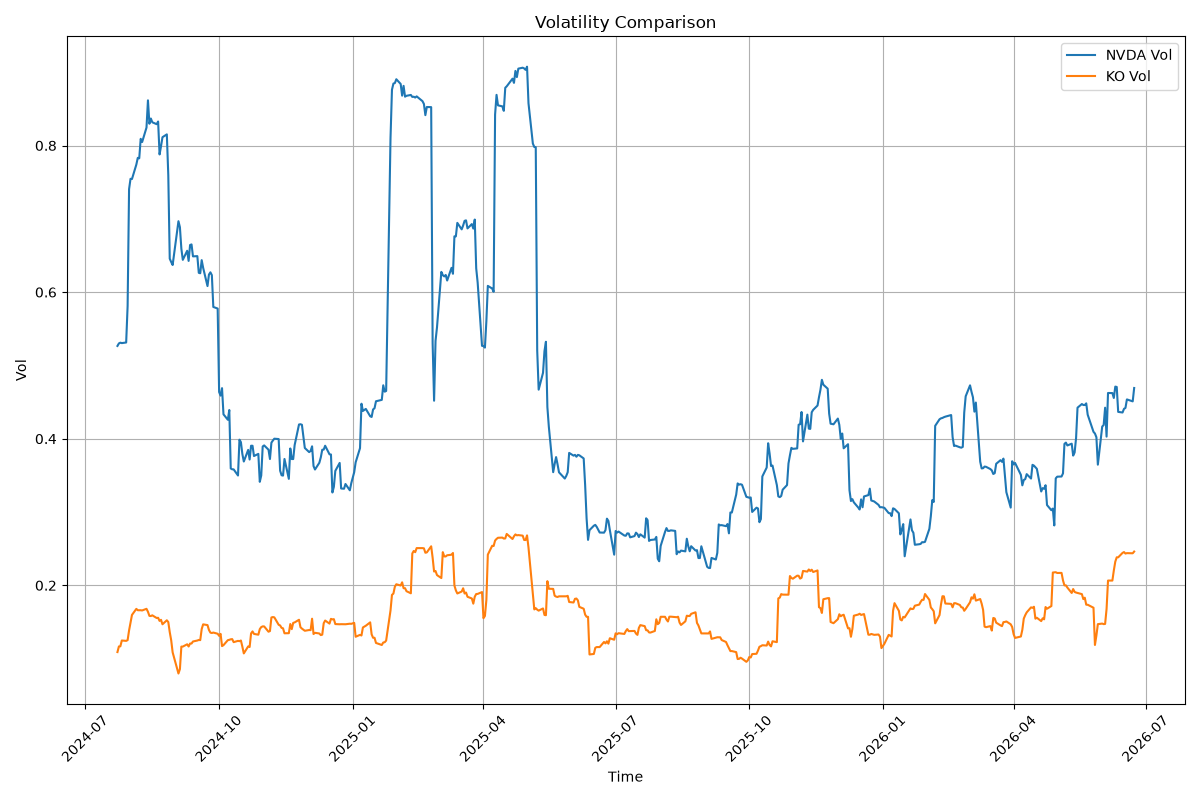
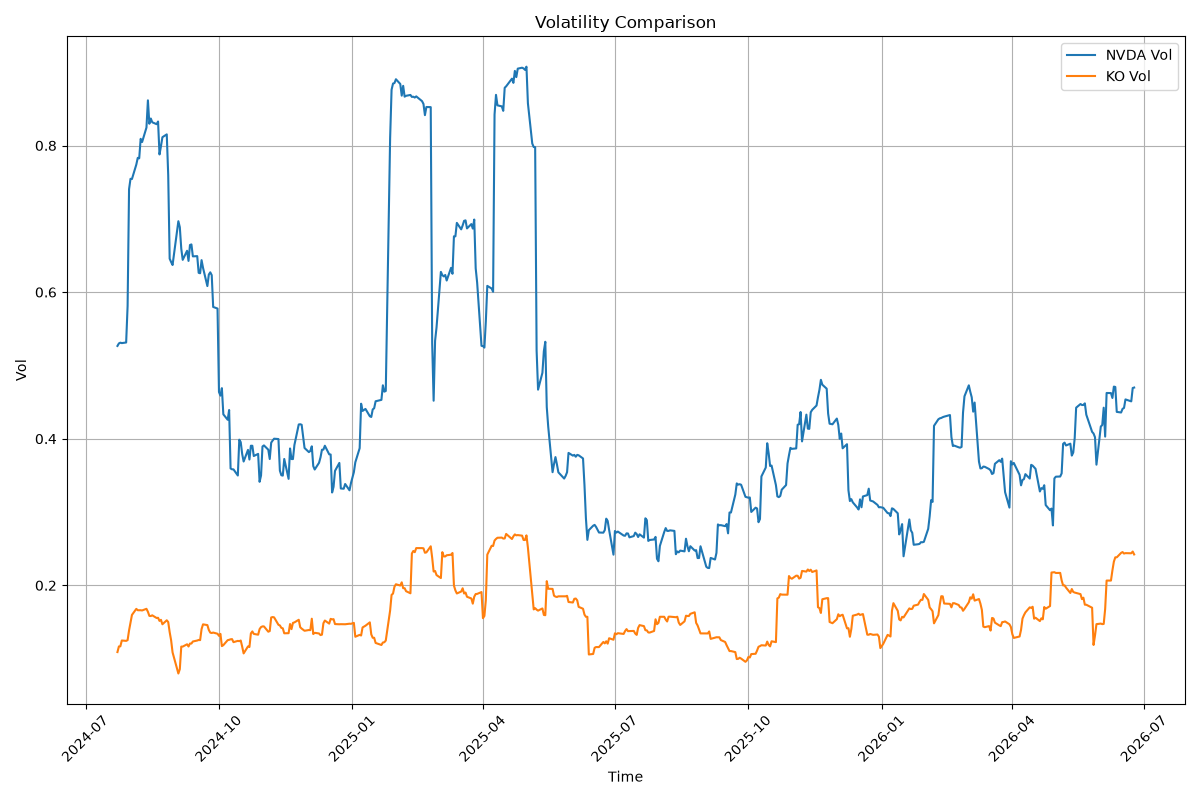
I changed code to include correlaton matrix for vola

diff --git a/24_06.py b/24_06.py
@@ -1,5 +1,3 @@
-
-from matplotlib import ticker
 import numpy as np 
 import pandas as pd
 import matplotlib.pyplot as plt
@@ -9,7 +7,7 @@ def main():
     tickers = ["NVDA", "KO"]
     data = get_data(tickers)
     plotting(data)
-    
+    analyze(data)
 
 
 def process_ticker(ticker, period="2y", window=20):
@@ -25,6 +23,19 @@ def get_data(tickers):
         data[ticker] = process_ticker(ticker)
     return data
 
+
+def analyze(data):
+    # Schritt 1: alle Vol-Spalten nebeneinander packen, Spaltennamen = Ticker
+    combined = pd.concat({ticker: df["Vol"] for ticker, df in data.items()}, axis=1)
+
+    # Schritt 2: Zeilen mit NaN raus
+    combined_clean = combined.dropna()
+
+    # Schritt 3: Korrelation berechnen
+    correlation_matrix = combined_clean.corr()
+    print(correlation_matrix)
+
+    return correlation_matrix
 
 def plotting(data):
     plt.figure(figsize=(12, 8))